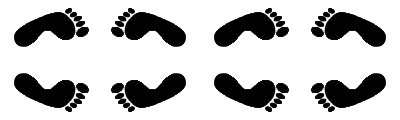
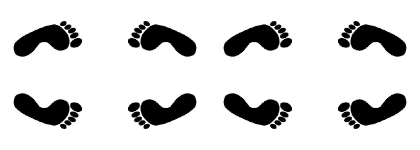
Add files via upload

diff --git a/index.py b/index.py
@@ -15,6 +15,27 @@ def reflexaoHorizontal(friso):
 	friso1 = friso.reflexaoHorizontal()
 	return friso.addBaixo(friso1)
 	
+def darMeiaVolta(friso):
+	tempMatriz1 = numpy.array(friso.imagem)
+	matrizVazia = tempMatriz1.copy()
+	for i in range(len(matrizVazia)):
+		for j in range(len(matrizVazia[i])):
+			if matrizVazia[i][j].tolist() != [255, 255, 255]:
+				matrizVazia[i][j] = numpy.array([255,255,255])
+	novo = numpy.concatenate((tempMatriz1, matrizVazia),axis=1)
+	return addBaixo(Friso(Image.fromarray(novo)), (Friso(Image.fromarray(novo)).reflexaoVertical().reflexaoHorizontal()))
+	
+def addDireita(friso, outro):
+	tempMatriz1 = numpy.array(friso.imagem)
+	tempMatriz2 = numpy.array(outro.imagem)
+	new = numpy.concatenate((tempMatriz1, tempMatriz2),axis=1)
+	return Friso(Image.fromarray(new))
+def addBaixo(friso, outro):
+	tempMatriz1 = numpy.array(friso.imagem)
+	tempMatriz2 = numpy.array(outro.imagem)
+	new = numpy.concatenate((tempMatriz1, tempMatriz2))
+	return Friso(Image.fromarray(new))
+	
 class Friso():
 	def __init__(self, imagem):
 		self.imagem = imagem
@@ -22,15 +43,10 @@ class Friso():
 		return self.imagem
 	def salvarImagem(self, caminho):
 		self.imagem.save(caminho)
+	def addDiagonal(self, outro):
+		tempMatriz1 = numpy.array(self.imagem)
+		tempMatriz2 = numpy.array(outro.imagem)
 		
-	def addDireita(self, outro):
-		tempMatriz1 = numpy.array(self.imagem)
-		tempMatriz2 = numpy.array(outro.imagem)
-		new = numpy.concatenate((tempMatriz1, tempMatriz2),axis=1)
-		return Friso(Image.fromarray(new))
-	def addBaixo(self, outro):
-		tempMatriz1 = numpy.array(self.imagem)
-		tempMatriz2 = numpy.array(outro.imagem)
 		new = numpy.concatenate((tempMatriz1, tempMatriz2))
 		return Friso(Image.fromarray(new))
 	def reflexaoVertical(self):
@@ -49,15 +65,18 @@ imagem = abreImagem("pe.png")
 quantidadeRepeticoes = 1
 
 friso = Friso(imagem)
-friso1 = friso.addDireita(friso)
-friso2 = friso.addDireita(friso.reflexaoHorizontal())
-friso3 = friso.addDireita(friso.reflexaoVertical())
-friso4 = friso.addBaixo(friso.reflexaoHorizontal())
-friso5 = friso.addDireita(friso.reflexaoHorizontal().reflexaoVertical())
-friso6 = friso.addDireita(friso.reflexaoVertical()).addDireita(friso.addDireita(friso.reflexaoVertical()).reflexaoHorizontal())
-friso7 = friso.addDireita(friso.reflexaoVertical()).addBaixo(friso.addDireita(friso.reflexaoVertical()).reflexaoHorizontal())
 
-listaDeFrisos = [friso1, friso2, friso3, friso4, friso5, friso6, friso7]
+friso1 = darMeiaVolta(friso)
+
+friso1.imagem.show()
+#friso2 = friso.addDireita(friso.reflexaoHorizontal())
+#friso3 = reflexaoVertical(friso.reflexaoVertical())
+#friso4 = reflexaoHorizontal(friso)
+#friso5 = friso.addDireita(friso.reflexaoHorizontal().reflexaoVertical())
+#friso6 = reflexaoVertical(friso).addDireita(reflexaoVertical(friso).reflexaoHorizontal())
+#friso7 = reflexaoHorizontal(reflexaoVertical(friso))
+
+listaDeFrisos = [friso1]
 
 for i in range(len(listaDeFrisos)):
 	for j in range(quantidadeRepeticoes):
